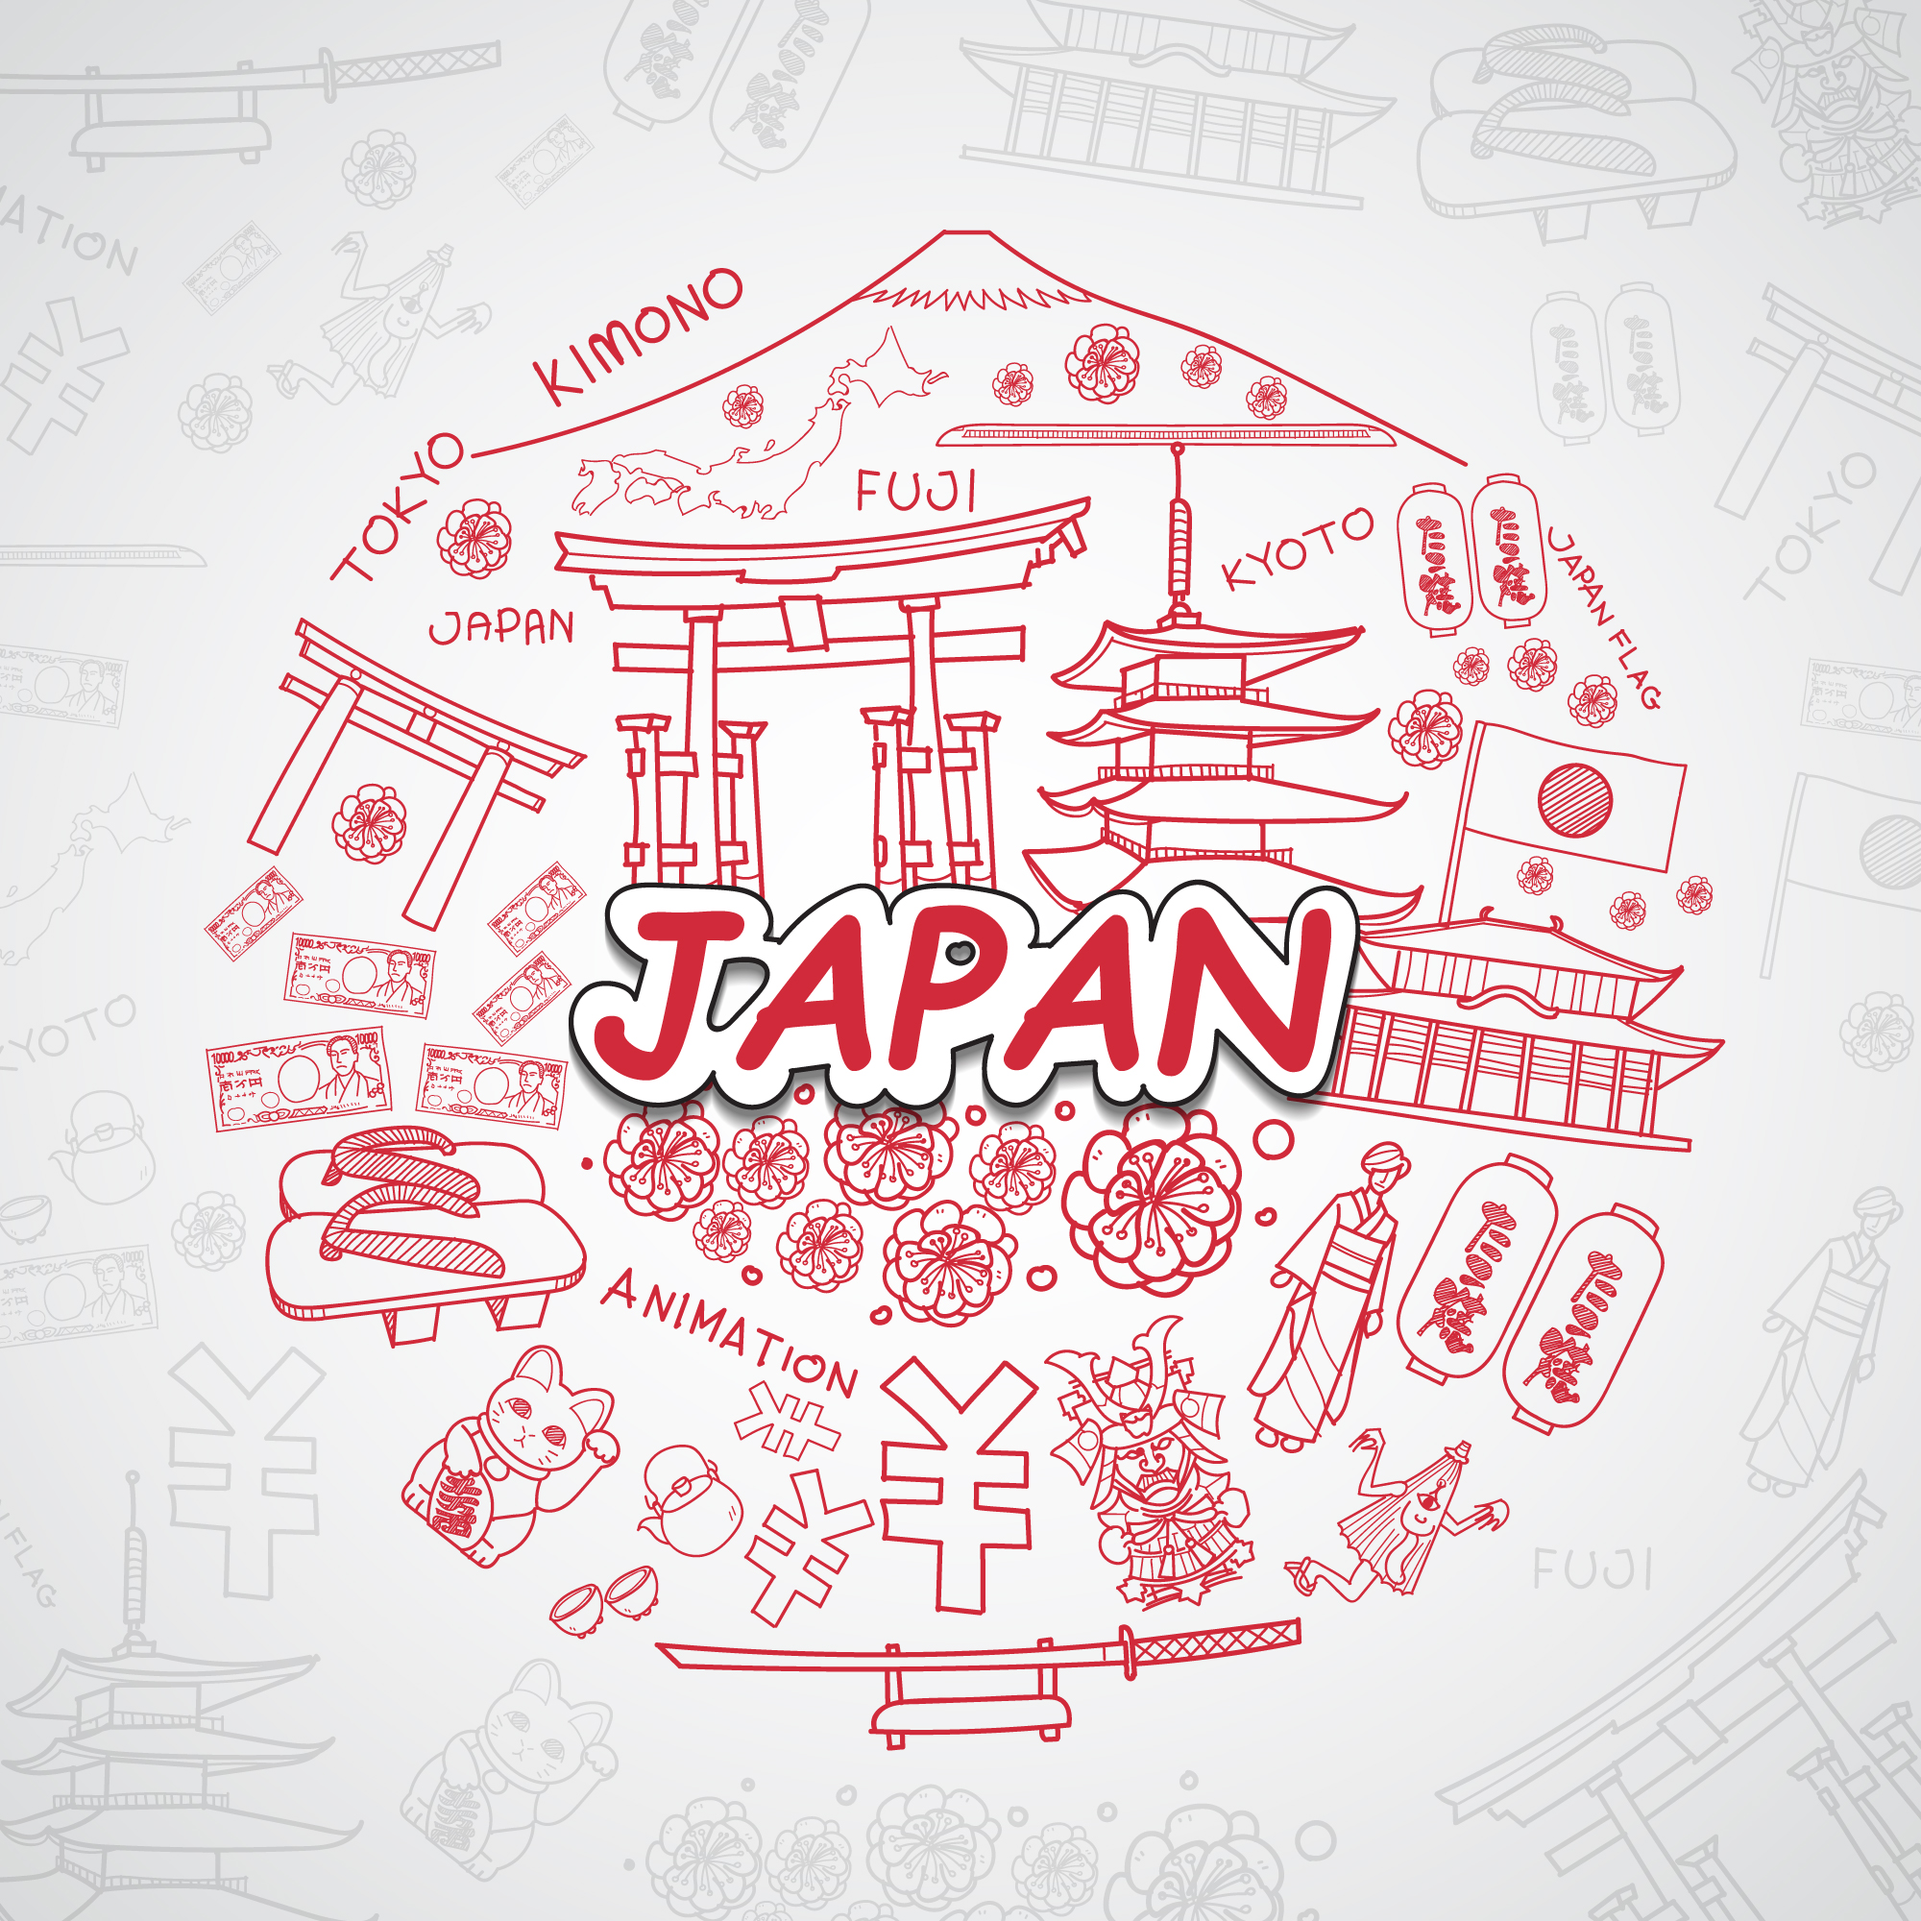
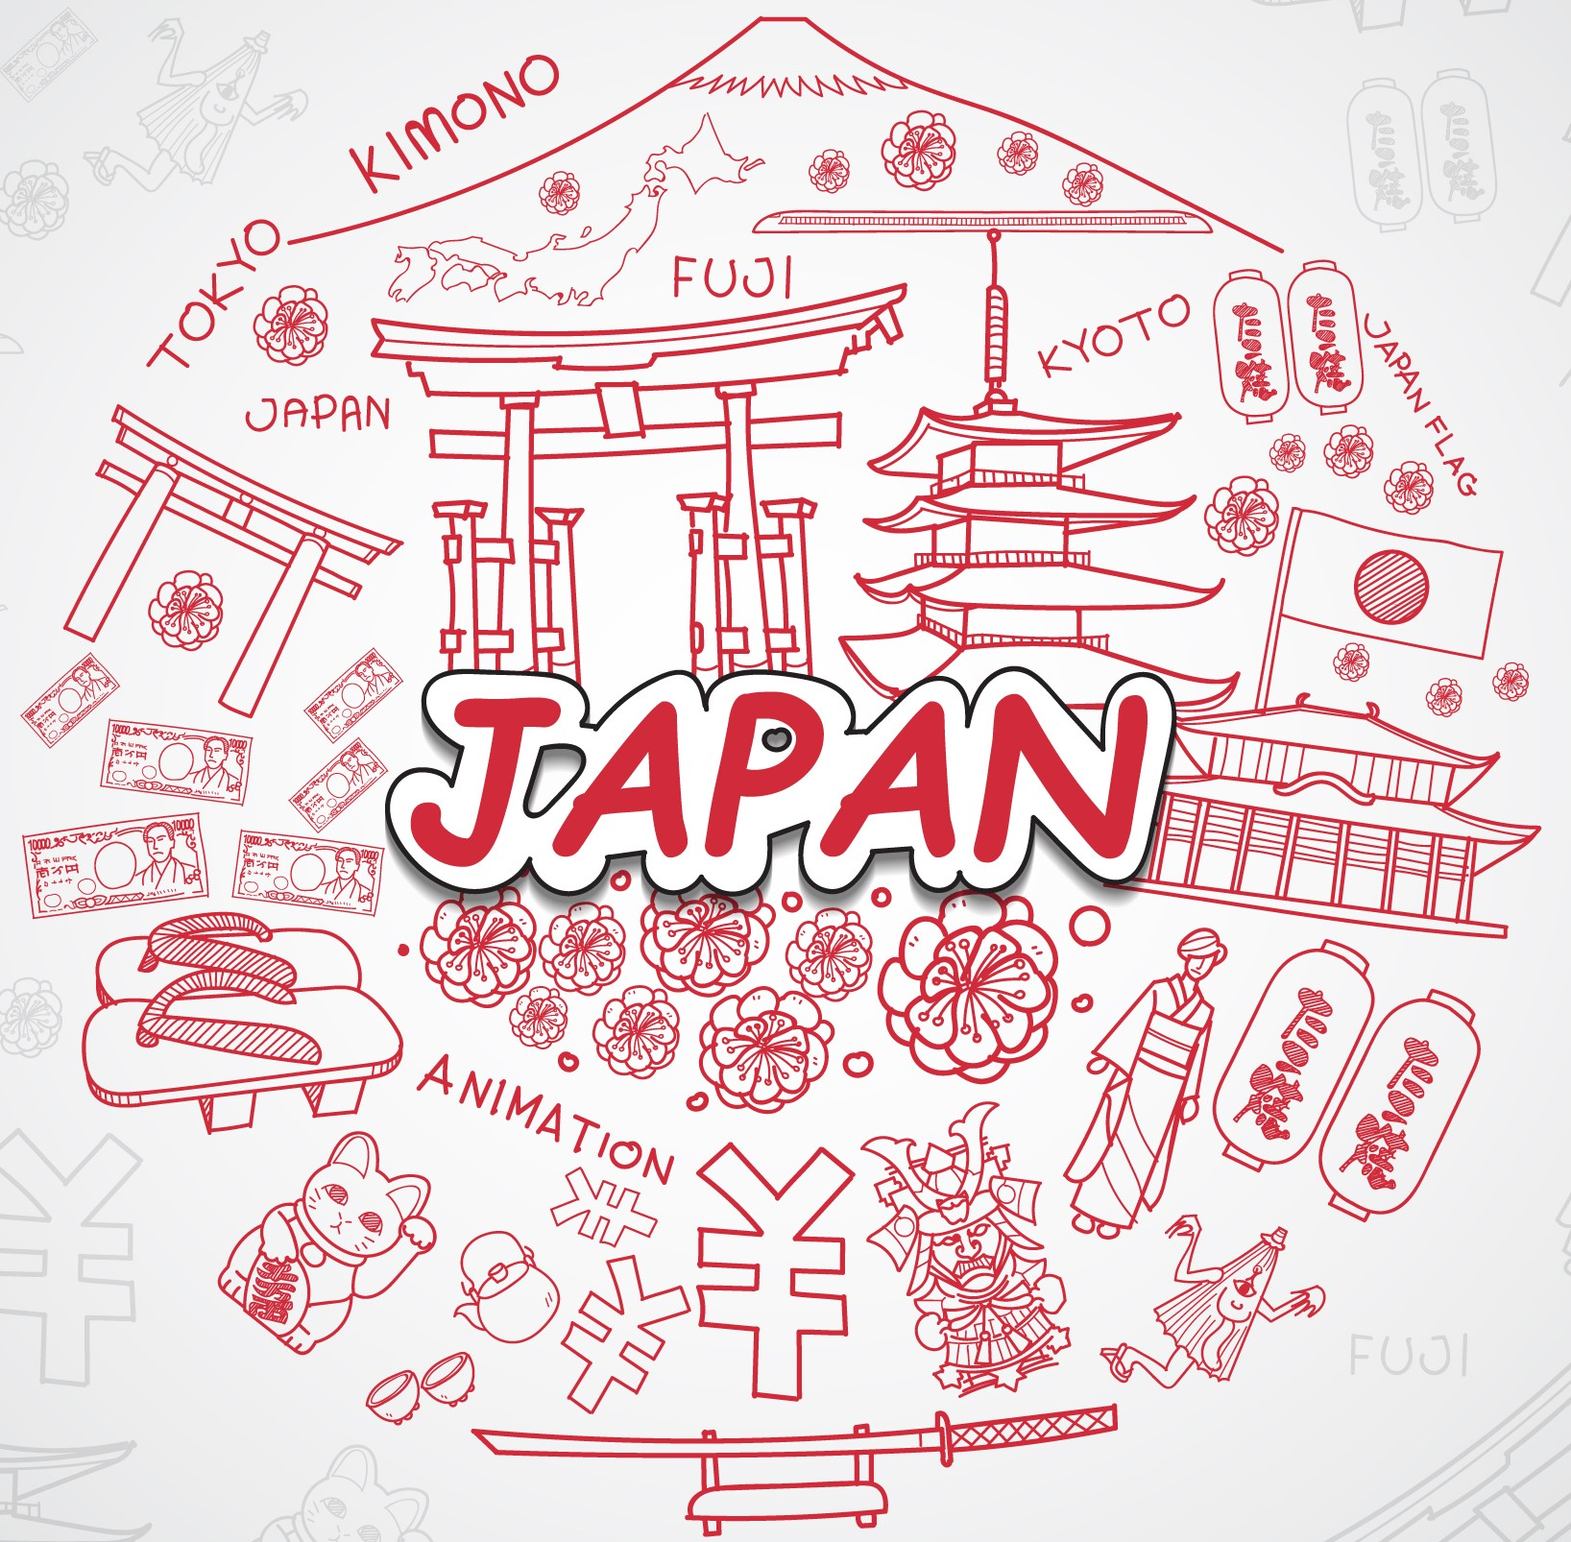
Changes made to the original fille

diff --git a/main.css b/main.css
@@ -1,0 +1,98 @@
+body {
+    background-color: #EDEAE0;
+}
+
+a {
+    cursor: pointer;
+}
+
+/* THE HEADER */
+
+.header-main {
+    width: 100%;
+    height: 60px;
+    background-color: #EDF2F4;
+    display: flex;
+    justify-content: space-between;
+}
+
+/* THE LOGO */
+
+.header-main-logo img {
+    width: 90px;
+    height: 100%;
+
+}
+
+.header-main-logo {
+    width: fit-content;
+    height: 100%;
+    display: flex;
+}
+
+/* NAVGATION BAR */
+
+.header-main-nav li {
+    display: inline;
+    float: left;
+    padding: 0 20px;
+    font-family: Domine;
+    line-height: 55px;
+}
+
+.header-main-nav li a:hover {
+    color: #EF233C;
+}
+
+/* SOCIAL MEDIA ICONS */
+
+/* .header-main-sm {
+    width: 100px;
+    height: 100%;
+    padding-right: 60px;
+    background-color: blue;
+}
+
+.header-main-sm-linkedin {
+    width: 20px;
+    height: 20px;
+    background-image: url(../wwr/images/linkedin-icon.png);
+    background-repeat: no-repeat;
+    background-size: cover;
+}
+
+.header-main-sm-email {
+    width: 20px;
+    height: 20px;
+    background-image: url(../wwr/images/gmail-icon.png);
+    background-repeat: no-repeat;
+    background-size: cover;
+} */
+
+body, html {
+    height: 100%;
+}
+
+/* Hero Baner Image */
+.hero-image img {
+    
+    height: 400px;
+    width: 1500px;
+}
+
+.hero-image {
+
+    background-position: center;
+    background-repeat: no-repeat;
+    background-size: cover;
+    position: relative;
+}
+
+.hero-text {
+    text-align: center;
+    position: absolute;
+    top: 50%;
+    left: 50%;
+    transform: translate(-50%, -50%);
+    color: white;
+}

diff --git a/site-plan-rafting.html b/site-plan-rafting.html
@@ -6,6 +6,7 @@
   <meta charset="utf-8" />
   <title>Site Plan</title>
   <link type="text/css" rel="stylesheet" href="styles/site-plan-rafting.css" />
+  <link rel="stylesheet" href="main.css">
 </head>
 
 <body>
@@ -31,7 +32,7 @@
     <h2>Branding</h2>
     <h3>Website Logo</h3>
     <!-- Replace this with some sort of logo for your site.  A logo can be as simple as the name of your site in a nice font :) -->
-    <img src="images\the_japan.jpg" alt="Logo image" />
+    <img src="images\japan-icon.png" alt="Logo image" />
     <hr />
     <h2>Style Guide</h2>
 
@@ -42,8 +43,8 @@
 
     <!-- Copy and paste the URL to your finished palette below. Replace the href value that is there with yours. Make sure to paste it into both the href value and the content text of the <a> tag -->
     <p>Palette URL:</p>
-    <a href="https://coolors.co/6f1df2-edf2f4-ef233c-0499d9"
-      target="_blank">https://coolors.co/6f1df2-edf2f4-ef233c-0499d9</a>
+    <a href="https://coolors.co/ffffff-edf2f4-ef233c-0499d9"
+      target="_blank">https://coolors.co/ffffff-edf2f4-ef233c-0499d9</a>
 
     <table class="colors">
       <tr>
@@ -56,8 +57,8 @@
       <tr>
         <td class="primary">#EF233C</td>
         <td class="secondary">#0499D9</td>
-        <td class="accent1">#EDF2F4</td>
-        <td class="accent2">#6F1DF2</td>
+        <td class="accent1">#FFFFFF</td>
+        <td class="accent2">#EDF2F4</td>
       </tr>
     </table>
 

diff --git a/index.html b/index.html
@@ -1,0 +1,38 @@
+<!DOCTYPE html>
+<html lang="en">
+<head>
+    <meta charset="UTF-8">
+    <meta name="viewport" content="width=device-width, initial-scale=1.0">
+    <link rel="stylesheet" href="main.css">
+    <title>The Land of The Rising Sun | Home</title>
+</head>
+
+<body>
+    <header class="header-main">
+        <div class="header-main-logo">
+            <img src="images\japan-icon.png" alt="logo" class="logo">
+            <nav class="header-main-nav">
+                <li><a href="index.html">Home</a></li>
+                <li><a href="site-plan-rafting.html">Site Plan</a></li>
+                <li><a href="#">Page2</a></li>
+                <li><a href="#">About Us</a></li>
+                <li><a href="#">Contact Us</a></li>
+            </nav>
+        </div>
+
+        <div class="header-main-sm">
+            <div class="header-main-sm-linkedin"></div>
+            <div class="header-main-sm-email"></div>
+        </div>
+    </header>
+    <div class="hero-image">
+        <img src="./images/forest-japan.jpg" alt="Forest in Japan">
+    </div>
+    <div class="hero-text">
+        <h1>The Land of The Rising Sun</h1>
+        <p>A place like you have never seen</p>
+        <button>Explore</button>
+    </div>
+</body>
+
+</html>

diff --git a/styles/site-plan-rafting.css b/styles/site-plan-rafting.css
@@ -8,7 +8,7 @@ Fonts are separated by a & */
   /* change the values below to your colors from your palette */
   --primary-color: #EF233C;
   --secondary-color: #0499D9;
-  --accent1-color: #6F1DF2;
+  --accent1-color: #fff;
   --accent2-color: #EDF2F4;
 
   /* change the values below to your chosen font(s) */
